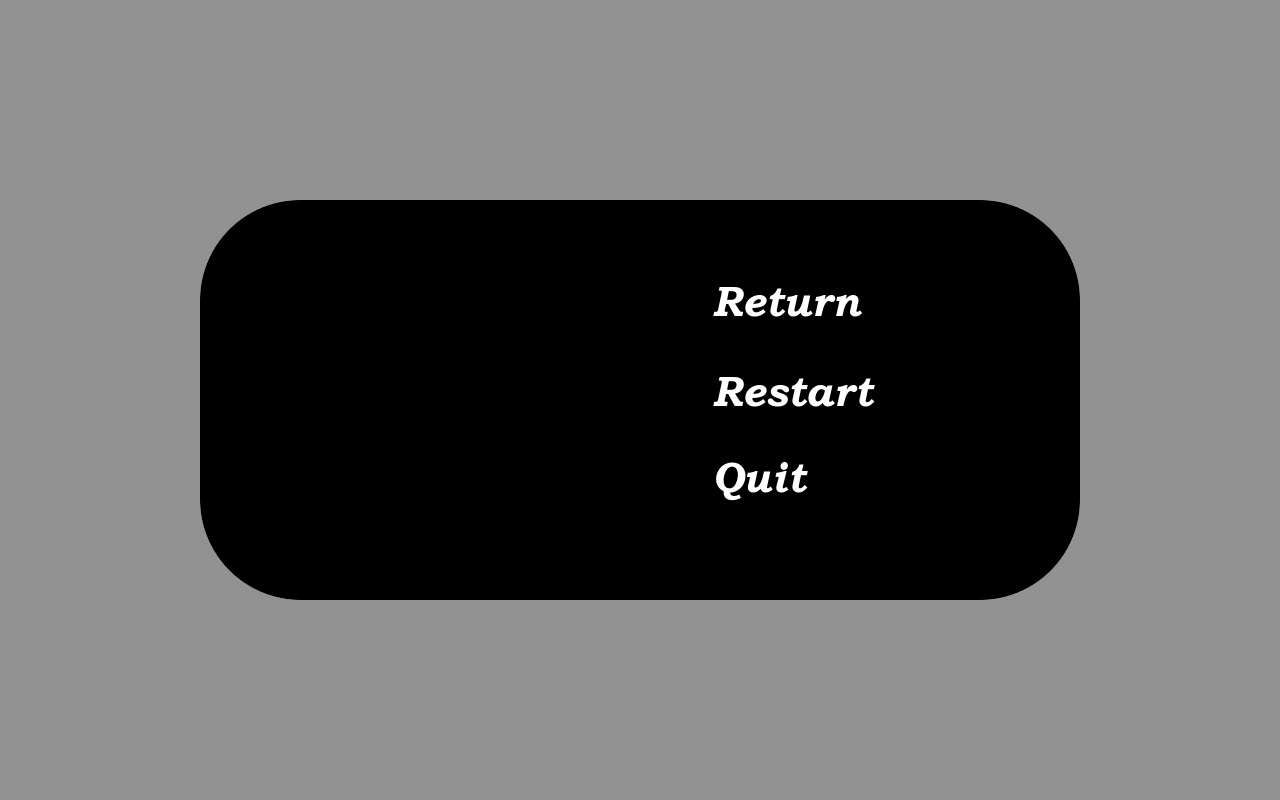
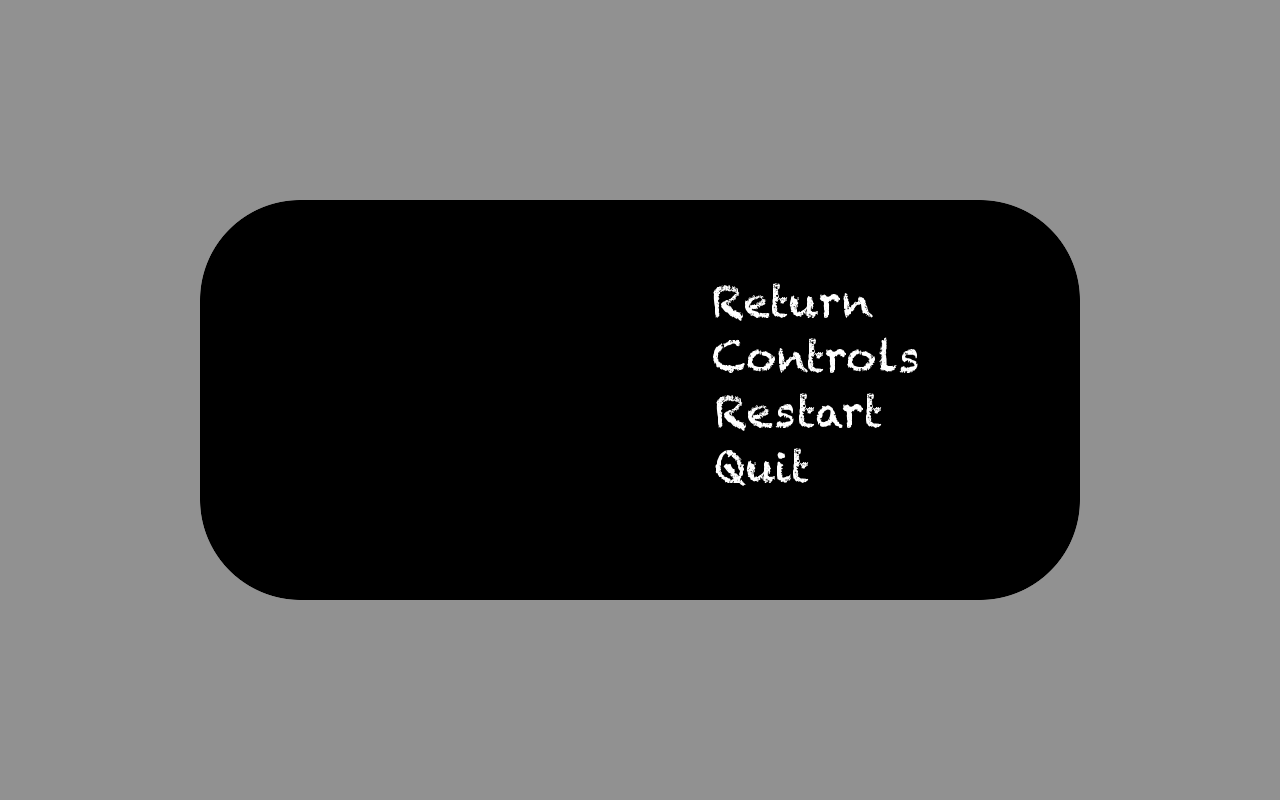
Added a new option to the pause menu, the CONTROLS, this way we don't have to spend 15 minutes explaining the game to every single person who wants to play.

Changed region(s): [[0.5625, 0.3438, 0.7188, 0.5312], [0.5625, 0.5625, 0.625, 0.625]]

diff --git a/src/main.cpp b/src/main.cpp
@@ -24,7 +24,9 @@ vector<State *> stack;
 vector<FMOD_SOUND *> sounds;
 vector<Texture *> textures_tr;
 bool loading;
+bool control;
 Drawable *load_screen;
+Drawable *control_screen;
 int level;
 int last_level;
 FMOD_SYSTEM *sound_system;
@@ -114,9 +116,15 @@ void initLoading(void)
   stringstream ss;
   
   loading = true;
+  control = false;
   ss << RESOURCES << LOADING_TEXTURE;
   tex = new Texture(ss.str().c_str());
   load_screen = new Drawable(0.0f, 0.0f, 1, 1, BACKGROUND, tex);
+  
+  ss.str("");
+  ss << RESOURCES << CONTROL_TEXTURE;
+  tex = new Texture(ss.str().c_str());
+  control_screen = new Drawable(0.0f, 0.0f, 1, 1, BACKGROUND, tex);
 }
 
 void initMain(int blah)
@@ -511,6 +519,7 @@ void handleKeypress(unsigned char key, int x, int y)
   switch(key)
   {
     case 27: // escape key
+      control_screen->clean();
       if (s == tutorial)
       {
         tutorial->clean();
@@ -531,7 +540,11 @@ void handleKeypress(unsigned char key, int x, int y)
       break;
     case '\n':
     case '\r':
-      if (s == paused)
+      if (control)
+      {
+        control = false;
+      }
+      else if (s == paused)
       {
         if (((Pause_State *)s)->get_selected() == 0) // return
         {
@@ -540,7 +553,11 @@ void handleKeypress(unsigned char key, int x, int y)
           ((Game_State *)s)->unpause_volume();
           stack.pop_back();
         }
-        else if (((Pause_State *)s)->get_selected() == 1) // restart
+        else if (((Pause_State *)s)->get_selected() == 1) // controls
+        {
+          control = true;
+        }
+        else if (((Pause_State *)s)->get_selected() == 2) // restart
         {
           loading = true;
           ((Pause_State*)s)->pause_sounds();
@@ -549,7 +566,7 @@ void handleKeypress(unsigned char key, int x, int y)
           glutPostRedisplay();
           glutTimerFunc(25, initLevel, level);
         }
-        else if (((Pause_State *)s)->get_selected() == 2) // quit
+        else if (((Pause_State *)s)->get_selected() == 3) // quit
         {
           ((Pause_State*)s)->pause_sounds();
           system_clean();
@@ -572,7 +589,7 @@ void handleKeypress(unsigned char key, int x, int y)
       else if (s == main_s)
       {
         level = ((Main_Menu_State*)s)->get_selected();
-        if (level == 11)
+        if (level == 11) // Tutorial
         {
           loading = true;
           glutPostRedisplay();
@@ -581,8 +598,9 @@ void handleKeypress(unsigned char key, int x, int y)
           delete main_s;
           glutTimerFunc(25, initTutorial, 0);
         }
-        else if (level == 12)
+        else if (level == 12) // Quit
         {
+          control_screen->clean();
           main_s->clean();
           delete main_s;
           exit(0);
@@ -698,6 +716,10 @@ void drawScene(void)
   if (loading)
   {
     load_screen->draw();
+  }
+  else if (control)
+  {
+    control_screen->draw();
   }
   else
   {

diff --git a/src/defines.h b/src/defines.h
@@ -26,6 +26,7 @@
 #define MAP1 "level.bmp"
 #define MAP_IMAGE "level.png"
 #define LOADING_TEXTURE "loading.png"
+#define CONTROL_TEXTURE "controls.png"
 #define PAUSE_ICONS_TEXTURE "pause_icons.png"
 #define PAUSED_NAMES_TEXTURE "names.png"
 #define MAIN_MENU_TEXTURE "main_menu.png"
@@ -69,10 +70,10 @@
 #define ICON_WIDTH 8
 #define ICON_HEIGHT 8
 
-#define MENU_ITEMS 3
+#define MENU_ITEMS 4
 #define MAIN_MENU_ITEMS_X 4
 #define MAIN_MENU_ITEMS_Y 3
-#define POINTER_MOVE 90
+#define POINTER_MOVE 55
 #define MAIN_MENU_POINTER_MOVE_X 185
 #define MAIN_MENU_POINTER_MOVE_Y 58
 #define MAIN_POINTER_START_X 207

diff --git a/src/pause_state.cpp b/src/pause_state.cpp
@@ -144,7 +144,7 @@ void Pause_State::key_pressed(unsigned char key, int x, int y)
       if(selected == 0)
       {
         selected = MENU_ITEMS - 1;
-        pointer->move(0, POINTER_MOVE * 2);
+        pointer->move(0, POINTER_MOVE * MENU_ITEMS - 1);
       }
       else
       {
@@ -156,7 +156,7 @@ void Pause_State::key_pressed(unsigned char key, int x, int y)
       selected = (++selected) % MENU_ITEMS;
       if (selected == 0)
       {
-        pointer->move(0, -POINTER_MOVE * 2);
+        pointer->move(0, -POINTER_MOVE * MENU_ITEMS - 1);
       }
       else
       {
